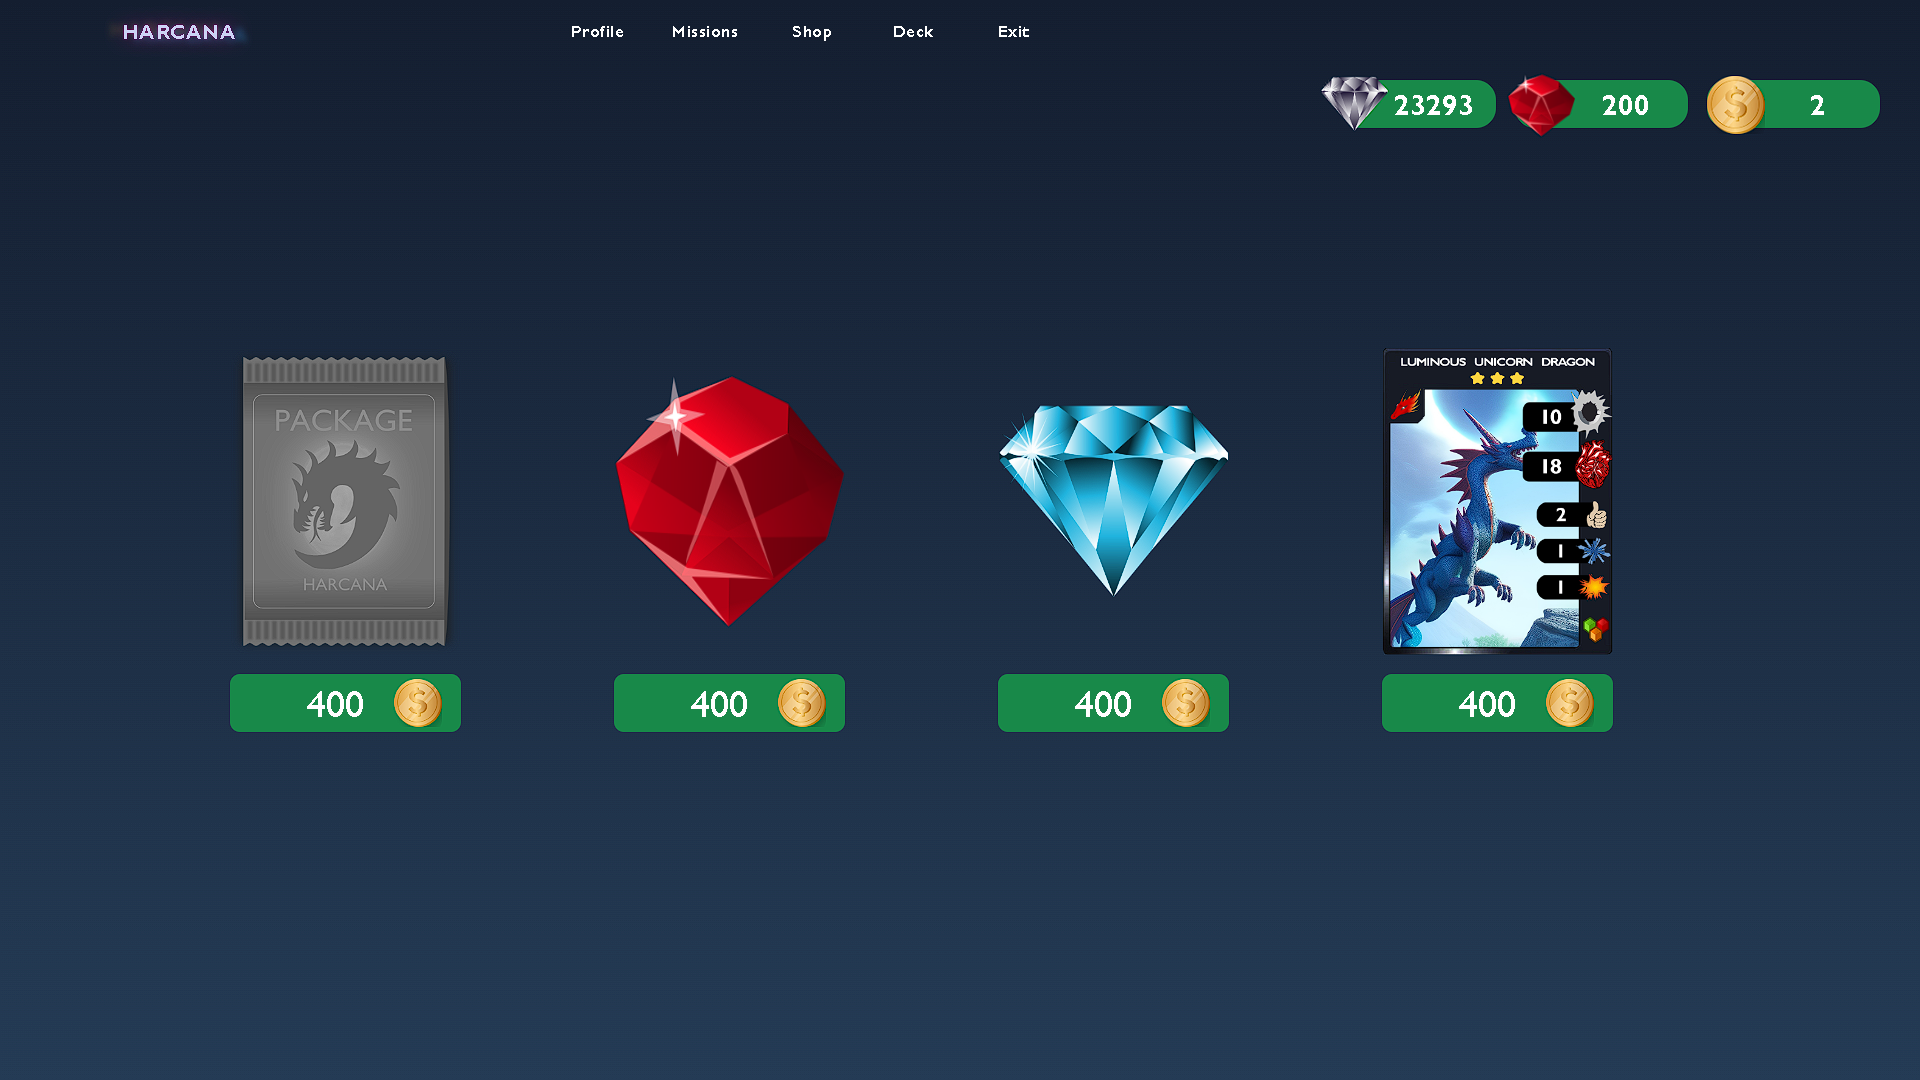
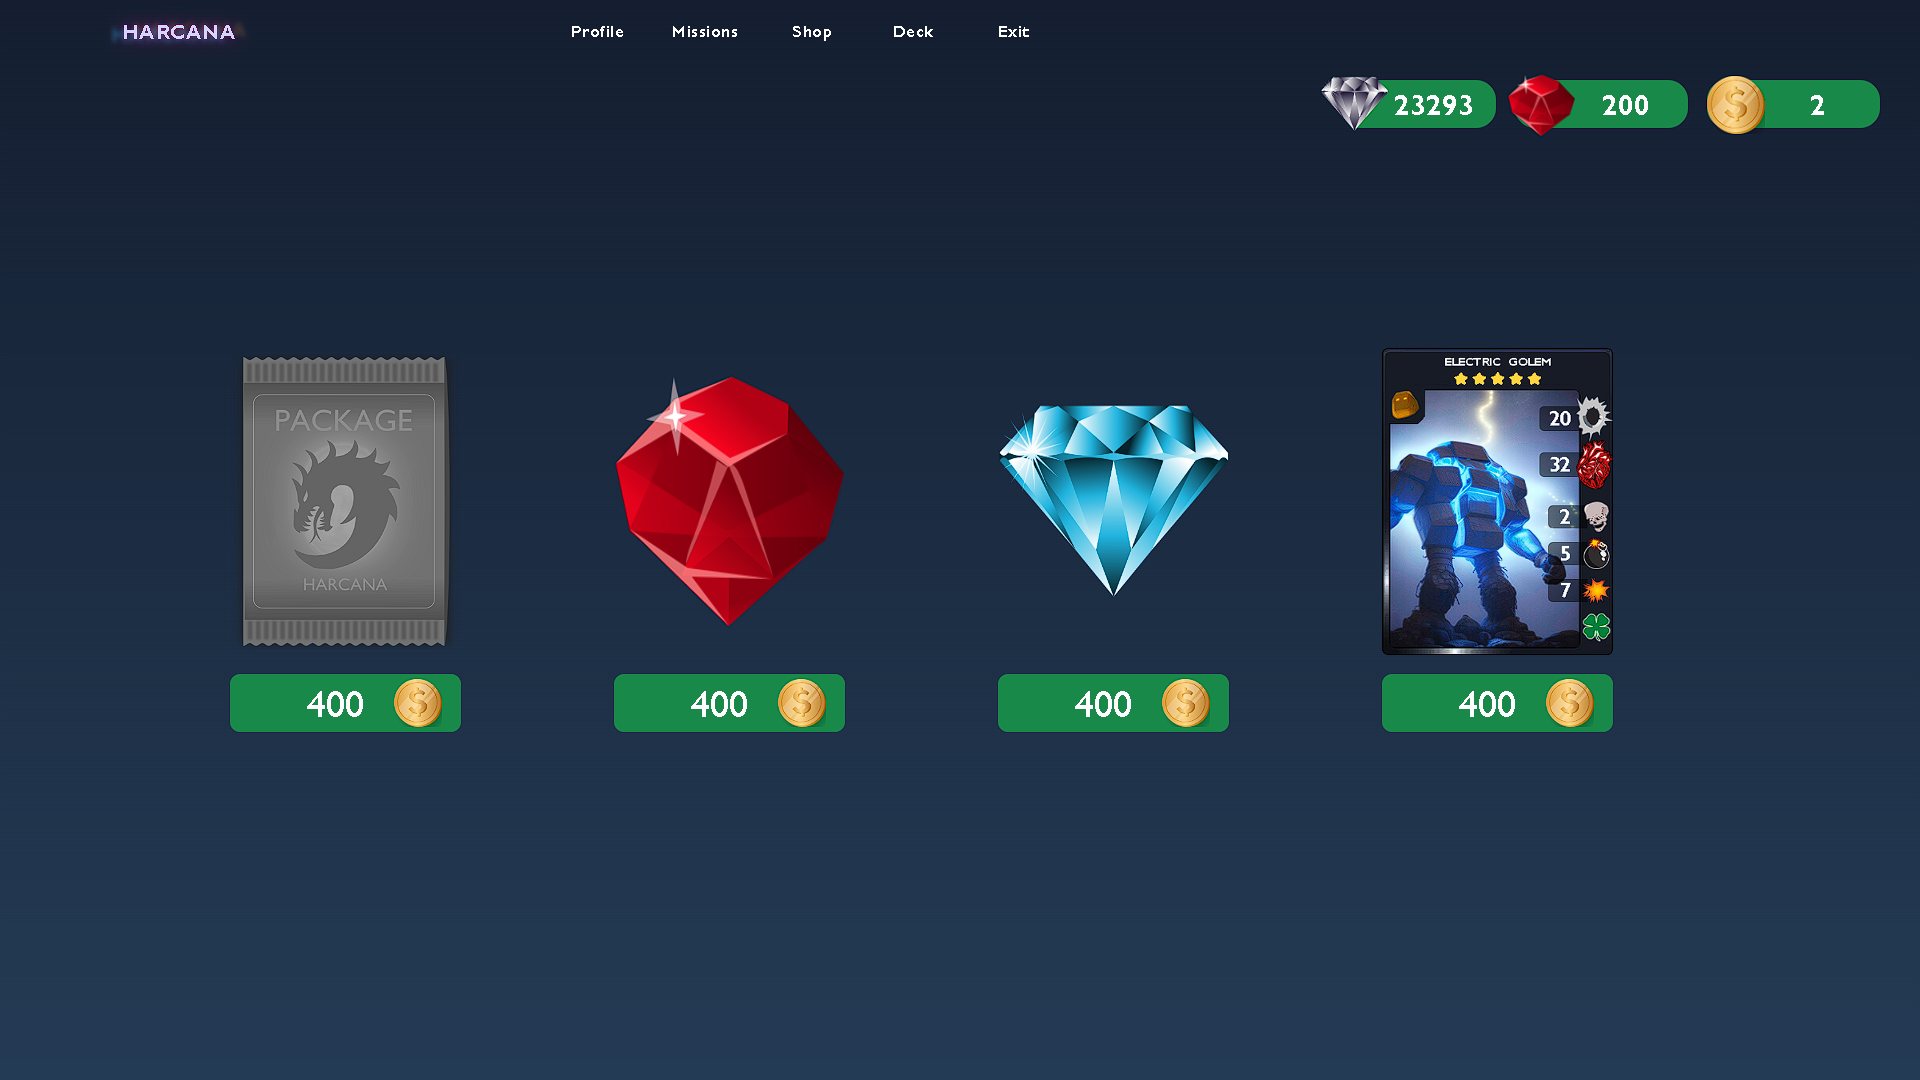
Alterado imagem de carta a venda e print da Loja

Changed region(s): [[0.7188, 0.3056, 0.8438, 0.6111]]

diff --git a/shop.html b/shop.html
@@ -78,7 +78,7 @@
 		</div>
 
 		<div id="carta-do-dia" class="shop-item">
-			<img id="carta-do-dia-imagem" class="shop-item-imagem" src="img/item/card-exemple-1.png">
+			<img id="carta-do-dia-imagem" class="shop-item-imagem" src="img/item/card-exemple-2.png">
 			<button id="carta-do-dia-botao" class="shop-item-botao">400 <img class="shop-item-botao-gold" src="img/icon/gui/gold.png"></button>
 		</div>
 	</section>
